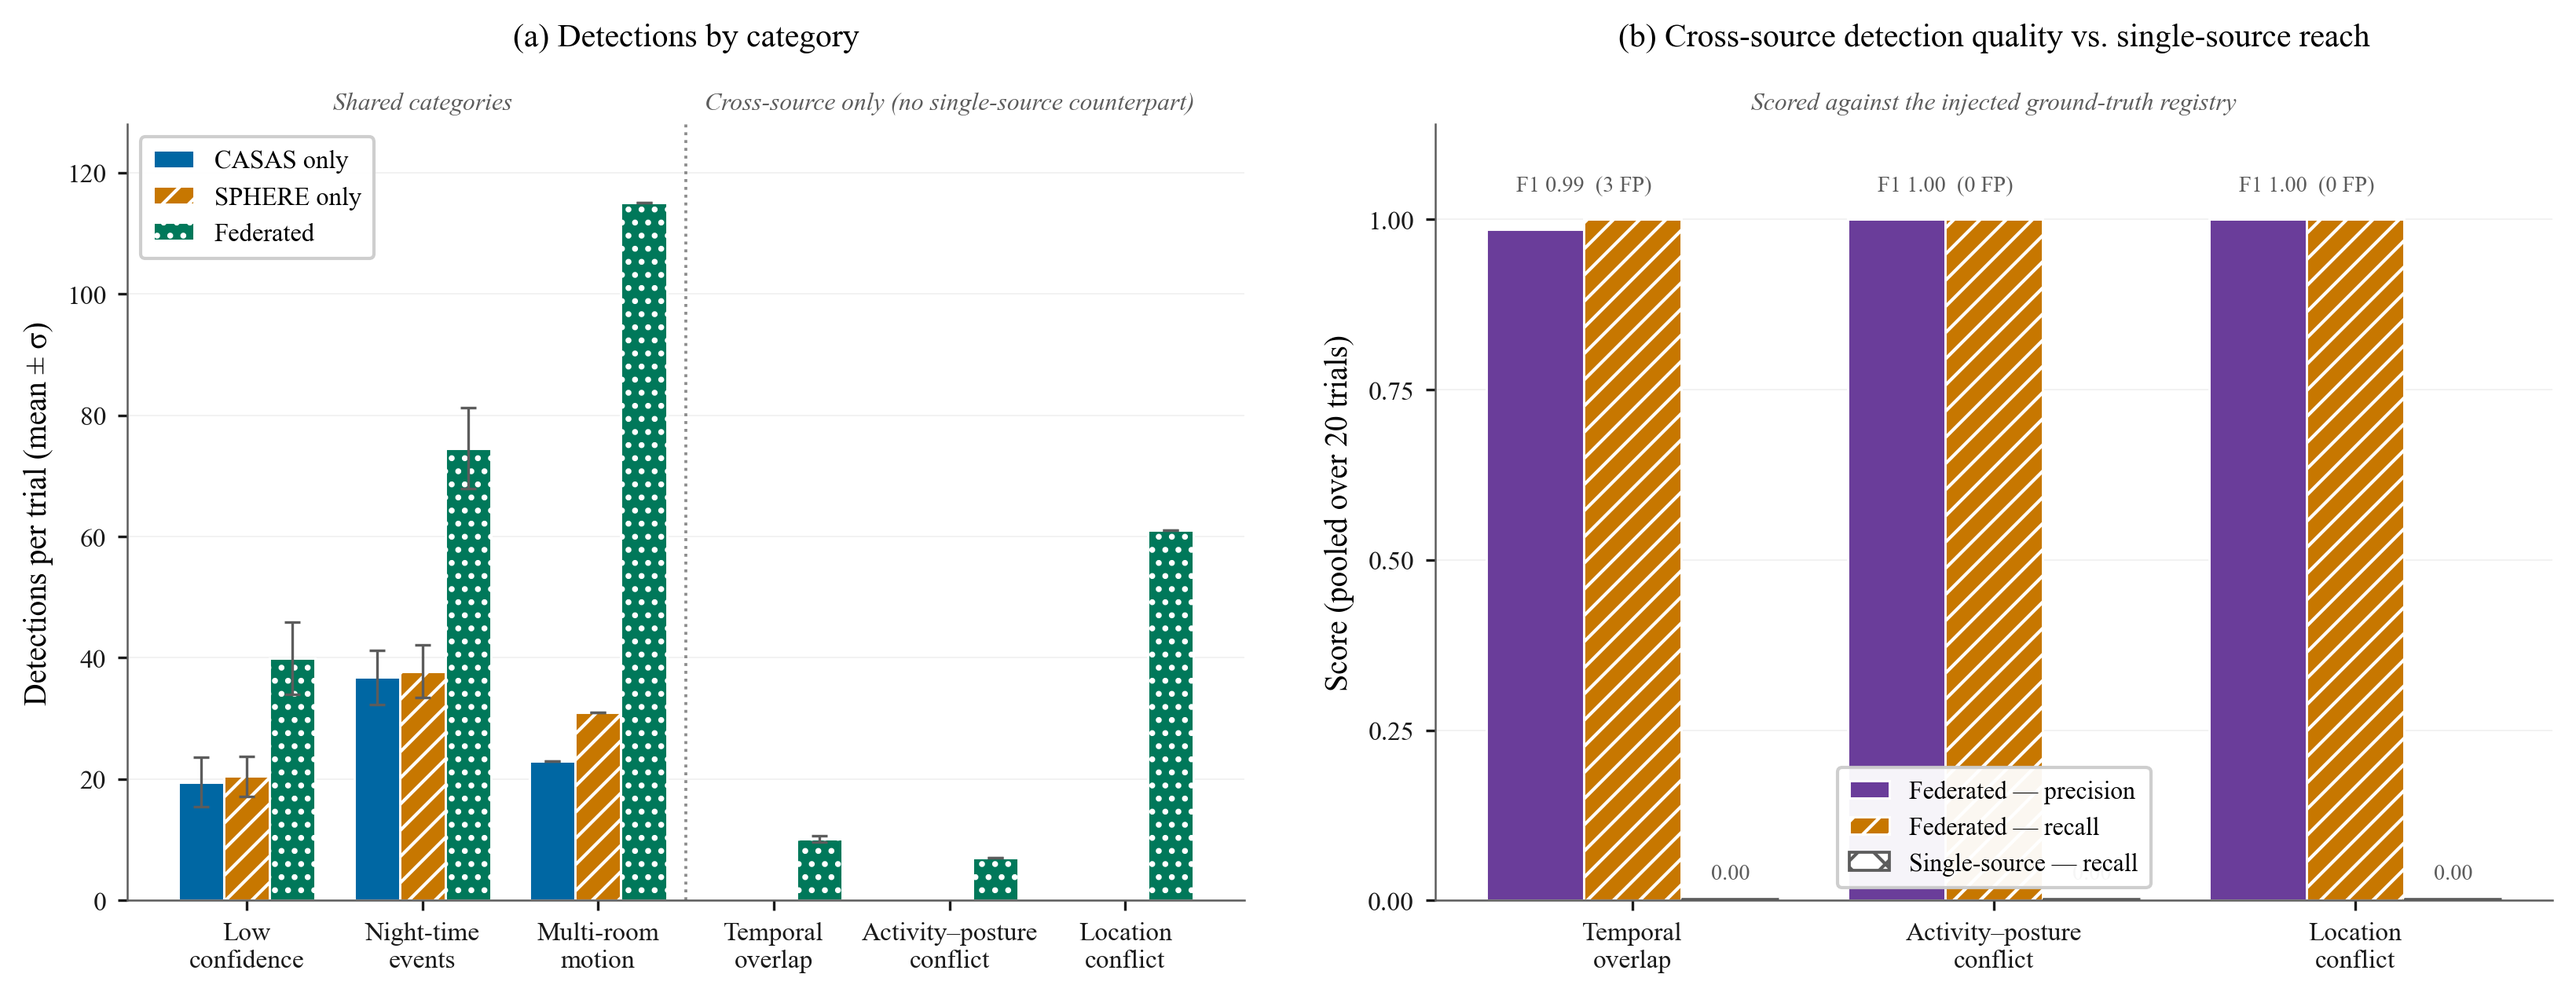
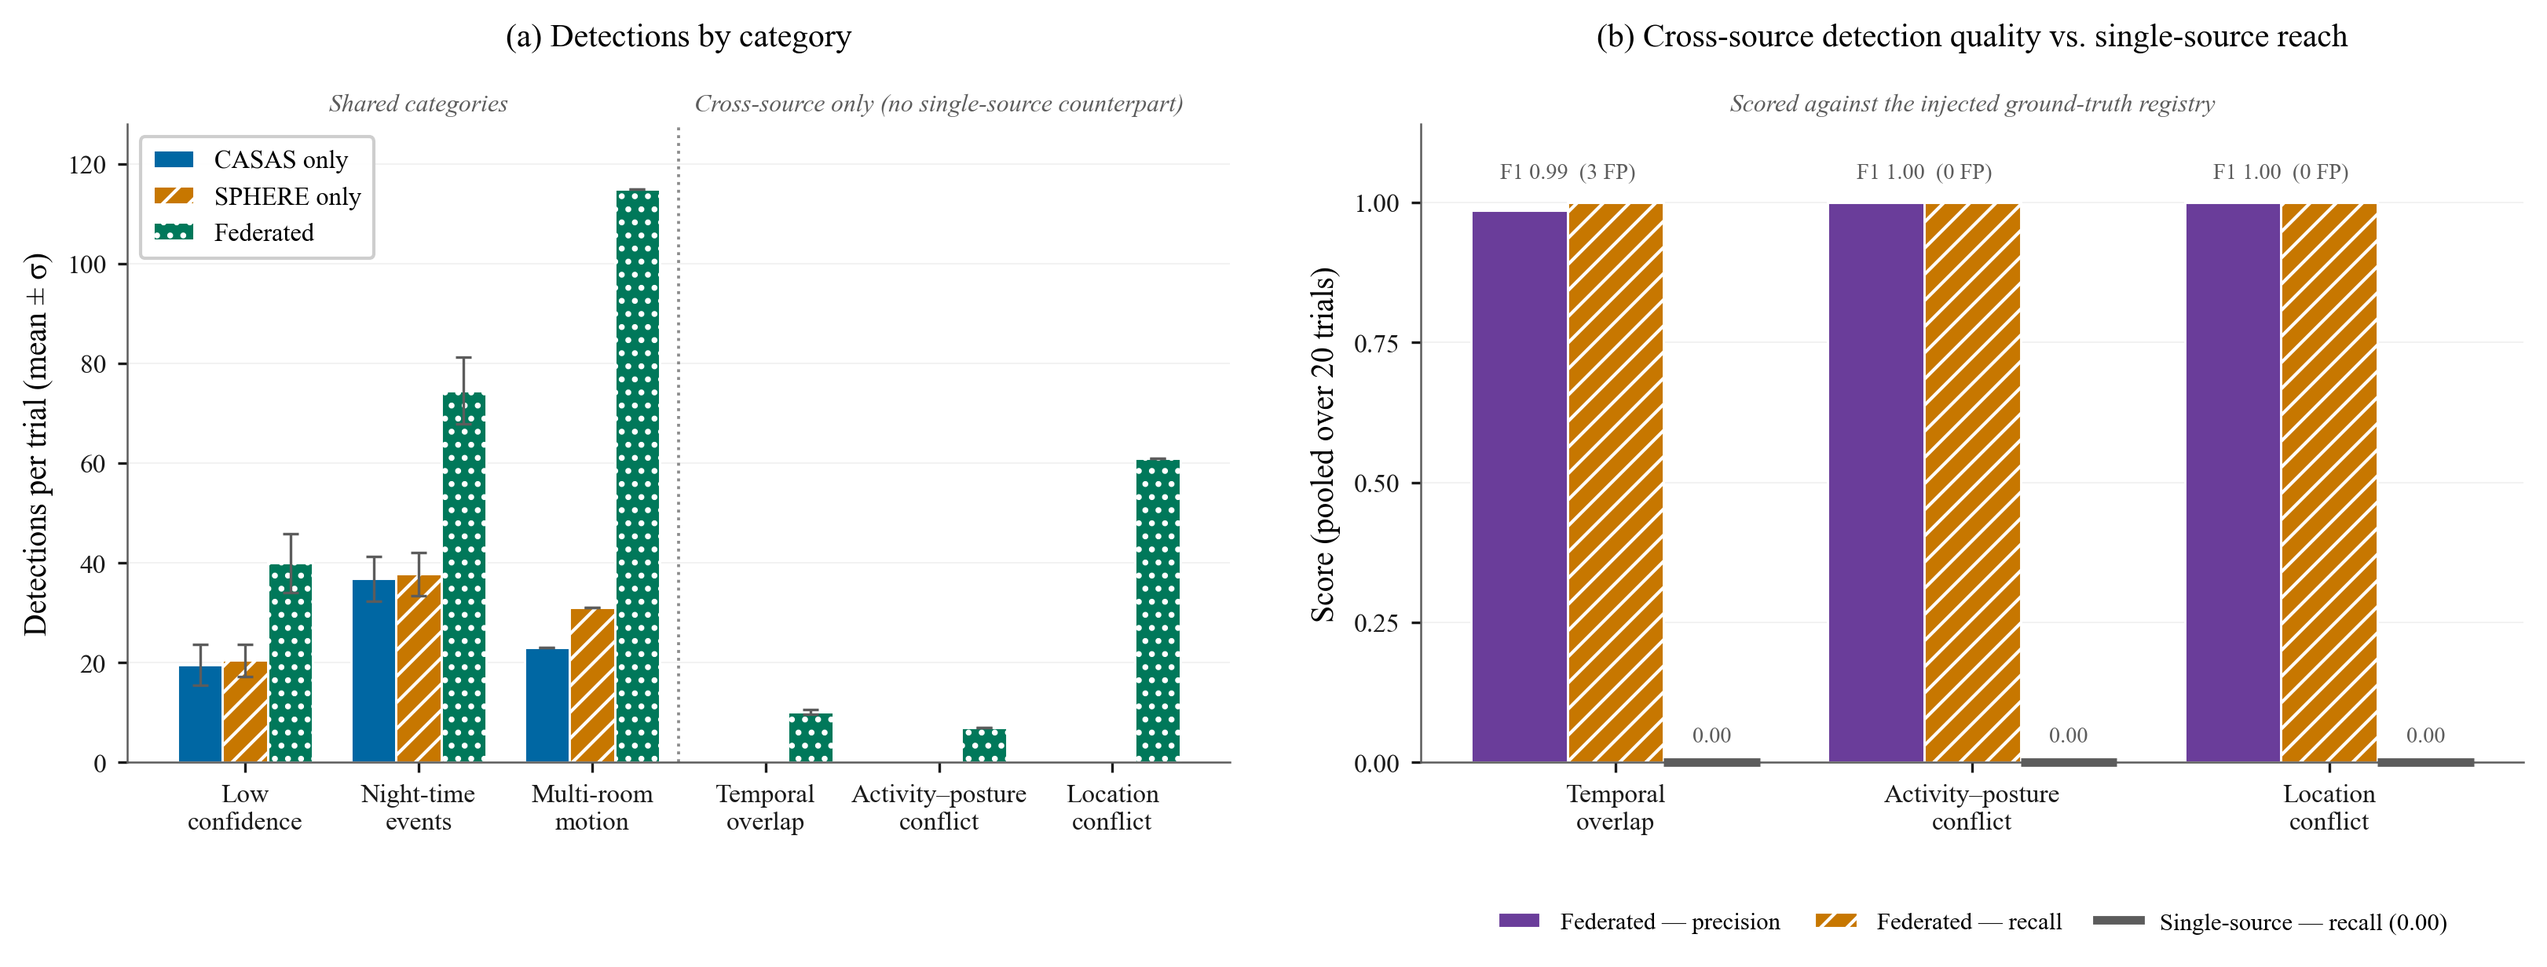
fix(fig7): legend entry now matches a mark that is actually drawn
Panel (b) listed "Single-source - recall" as a white, xx-hatched bar patch, but
single-source recall is exactly 0.00, so the bar had no height and rendered as
nothing. The legend promised a swatch the reader could not find anywhere in the
plot. What was actually drawn at zero was a thin grey stub, which matched no
legend entry.

- The zero-height bar series is removed. Single-source recall is drawn as an
  explicit rule on the axis (linewidth 2.6, clip_on=False so it is not clipped
  by the axis line), which is visible, and the legend now carries that same
  rule as its handle via Line2D.
- Legend handles are built explicitly so every entry corresponds to a drawn
  mark, rather than relying on auto-collected artists.
- Legend moved below the axes (horizontal, 3 columns, frameless). All three bar
  groups reach the top of the plot, so there was no interior position that did
  not overlap data -- previously it sat on top of the Activity-posture bars.

Previous version preserved at fig/generate_federation_figure7_v1_backup.py and
in commit eb6ed4c.

diff --git a/fig/generate_federation_figure7.py b/fig/generate_federation_figure7.py
@@ -35,6 +35,7 @@ from typing import Any, Dict, List, Tuple
 
 import matplotlib.pyplot as plt
 import numpy as np
+from matplotlib.lines import Line2D
 from matplotlib.patches import Patch
 
 # CVD-safe, print-contrast-safe. Semantic mapping preserved from the legacy figure
@@ -190,20 +191,21 @@ def _panel_b(ax: plt.Axes, prf: Dict[str, Any]) -> None:
 
     single_source_recall = float(prf.get("single_source_recall_on_cross_source_categories", 0.0))
 
-    ax.bar(x - width, precision, width, label="Federated — precision",
+    ax.bar(x - width, precision, width,
            color=COLOR_PRECISION, edgecolor="white", linewidth=0.7)
-    ax.bar(x, recall, width, label="Federated — recall", hatch="///",
+    ax.bar(x, recall, width, hatch="///",
            color=COLOR_RECALL, edgecolor="white", linewidth=0.7)
-    # A measured zero, drawn as a visible stub with an outline so it reads as
-    # plotted-and-zero rather than as missing data.
-    ax.bar(x + width, [single_source_recall] * len(x), width,
-           label="Single-source — recall", color="white", edgecolor=INK_MUTED,
-           linewidth=0.9, hatch="xx")
+
+    # Single-source recall is exactly zero, so a bar would have no height and
+    # render as nothing at all — a legend swatch for it would promise a mark the
+    # reader cannot find. It is drawn instead as an explicit rule on the axis,
+    # which is visible, and the legend carries that same rule as its handle.
     for xi in x:
         ax.plot([xi + width - width / 2, xi + width + width / 2],
                 [single_source_recall, single_source_recall],
-                color=INK_MUTED, linewidth=1.6, solid_capstyle="butt", zorder=5)
-        ax.text(xi + width, single_source_recall + 0.025, "0.00", ha="center", va="bottom",
+                color=INK_MUTED, linewidth=2.6, solid_capstyle="butt",
+                zorder=6, clip_on=False)
+        ax.text(xi + width, single_source_recall + 0.028, "0.00", ha="center", va="bottom",
                 fontsize=6.8, color=INK_MUTED)
 
     for xi, (p_val, r_val, f1, fp) in enumerate(zip(precision, recall, f1_vals, fp_counts)):
@@ -228,8 +230,19 @@ def _panel_b(ax: plt.Axes, prf: Dict[str, Any]) -> None:
             transform=ax.transAxes, ha="center", va="bottom",
             fontsize=7.6, color=INK_MUTED, style="italic", clip_on=False)
 
-    ax.legend(fontsize=7.6, loc="lower center", framealpha=0.95, edgecolor=GRID,
-              borderpad=0.5, handlelength=1.6, ncol=1)
+    # Handles are built explicitly so every entry matches a mark that is actually
+    # drawn: two bar patches and the zero rule. Placed below the axes because all
+    # three bar groups reach the top of the plot, leaving no interior space that
+    # does not collide with data.
+    handles = [
+        Patch(facecolor=COLOR_PRECISION, edgecolor="white", label="Federated — precision"),
+        Patch(facecolor=COLOR_RECALL, edgecolor="white", hatch="///", label="Federated — recall"),
+        Line2D([], [], color=INK_MUTED, linewidth=2.6,
+               label="Single-source — recall (0.00)"),
+    ]
+    ax.legend(handles=handles, fontsize=7.4, loc="upper center",
+              bbox_to_anchor=(0.5, -0.20), ncol=3, framealpha=0.0,
+              borderpad=0.4, handlelength=1.8, columnspacing=1.4, frameon=False)
 
 
 CAPTION = """Figure 7: Cross-dataset federated reasoning, over 20 randomized injection trials
